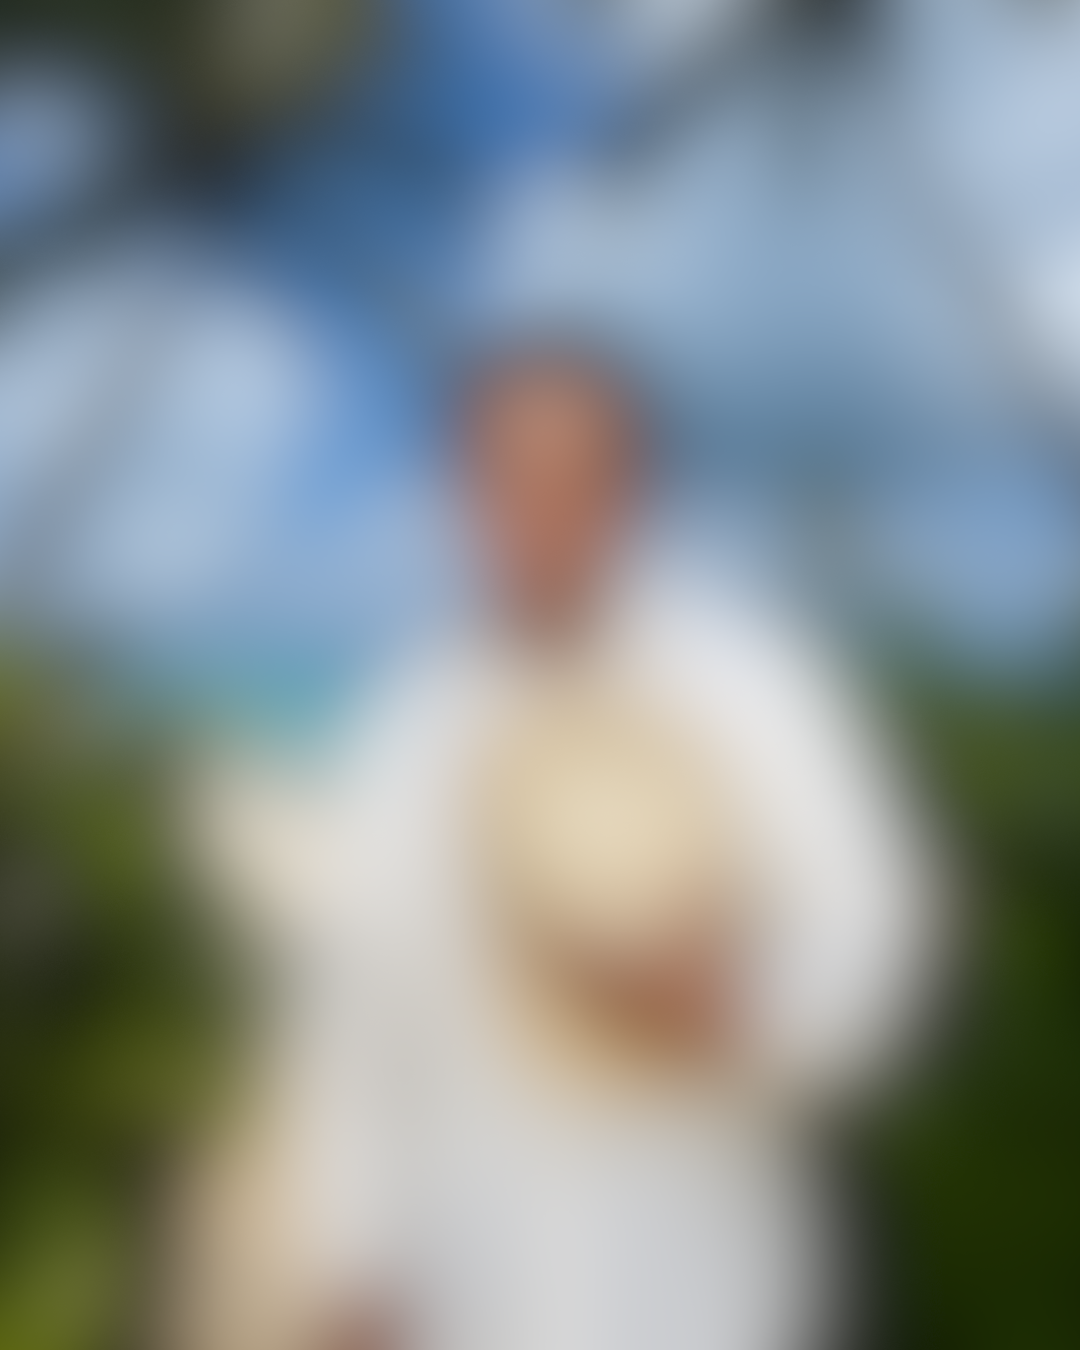
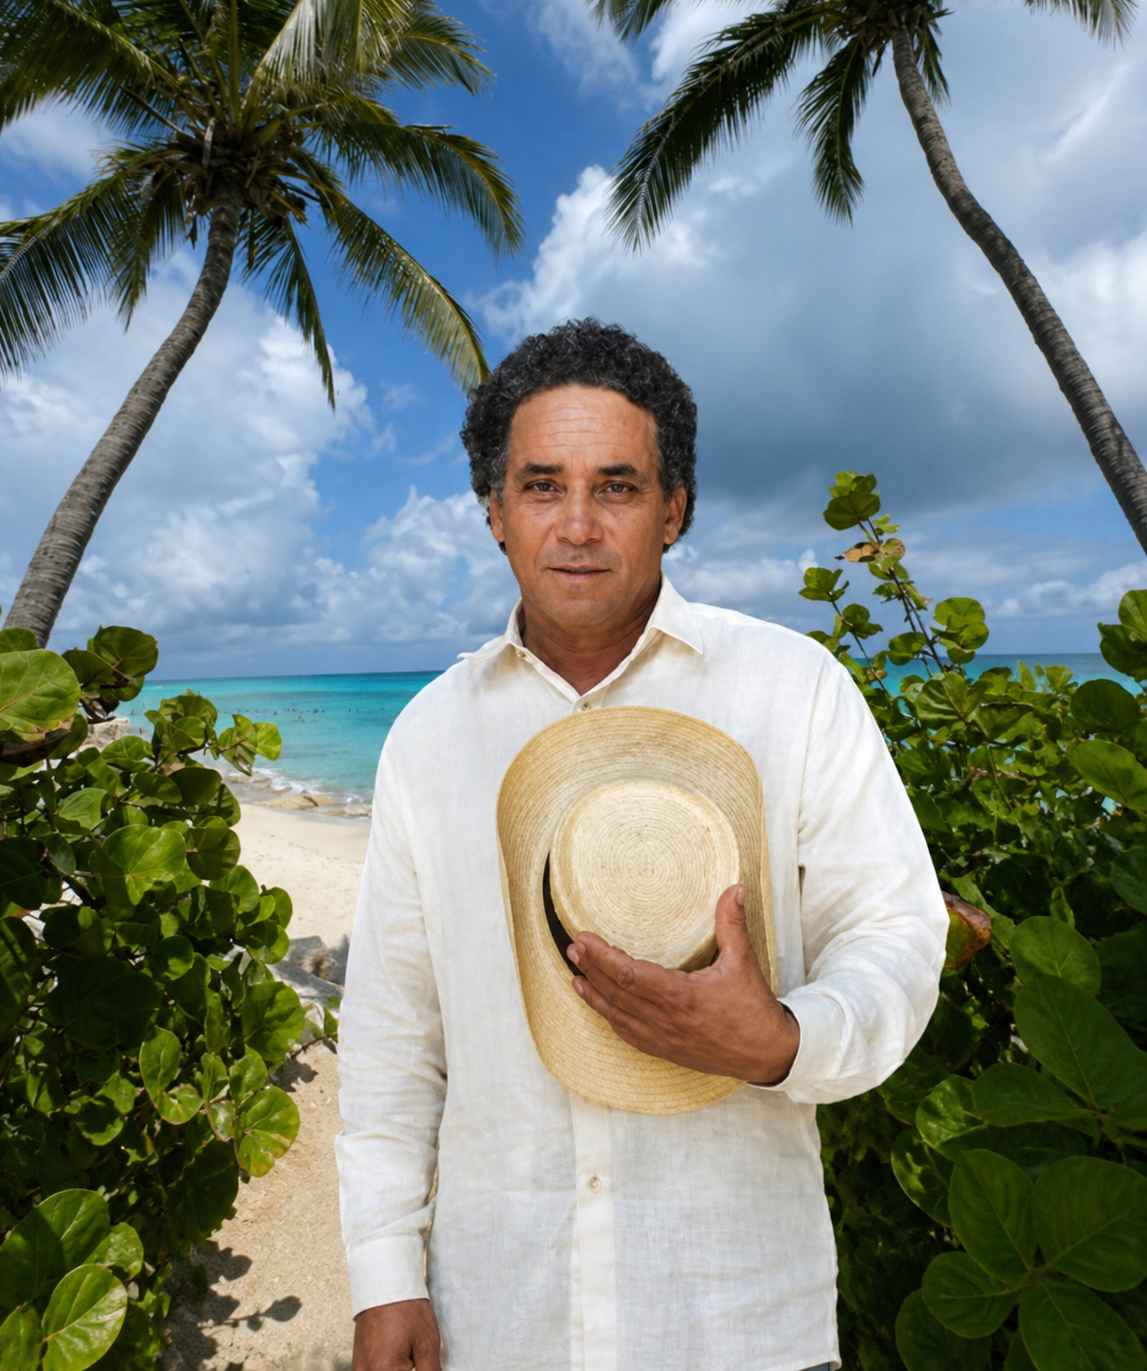
revelacion del año

diff --git a/categorias/index.html b/categorias/index.html
@@ -478,22 +478,8 @@
         <div class="cat-card">
             <div class="cat-card-img">
                 <img src="/assets/images/revelacion.png" alt="Categoría 9" loading="lazy">
-                <div class="cat-card-lock">
-                    <div class="lock-icon">
-                        <svg viewBox="0 0 24 24" fill="none" stroke="currentColor" stroke-width="2" stroke-linecap="round" stroke-linejoin="round">
-                            <rect x="3" y="11" width="18" height="11" rx="2" ry="2"/>
-                            <path d="M7 11V7a5 5 0 0 1 10 0v4"/>
-                        </svg>
-                    </div>
-                </div>
             </div>
-            <p class="cat-card-title">Categoría sin desbloquear</p>
-            <span class="cat-card-badge">
-                <svg viewBox="0 0 24 24" fill="none" stroke="currentColor" stroke-width="2" stroke-linecap="round" stroke-linejoin="round">
-                    <circle cx="12" cy="12" r="10"/><polyline points="12 6 12 12 16 14"/>
-                </svg>
-                13 de mayo 6:00 PM
-            </span>
+            <p class="cat-card-title">Revelación del año</p>
         </div>
 
         <!-- Categoría 10 -->
